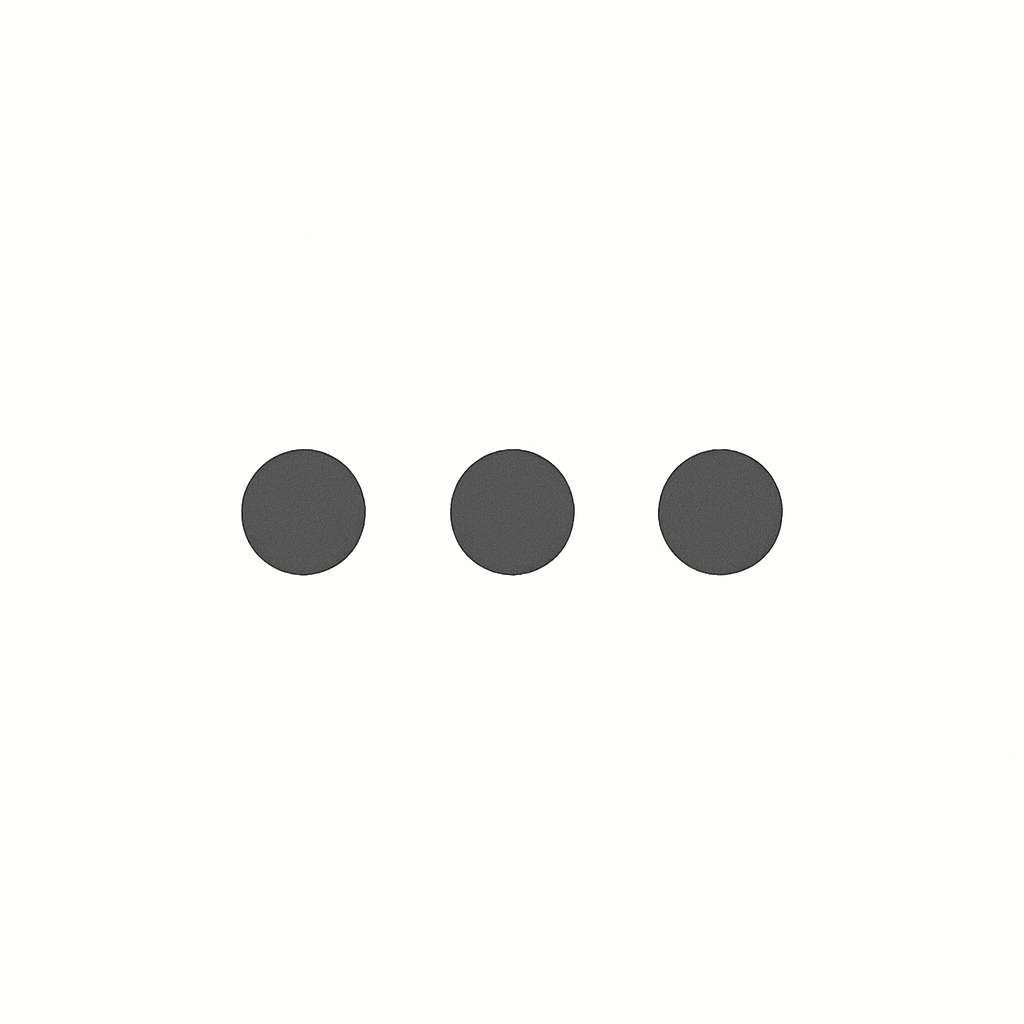
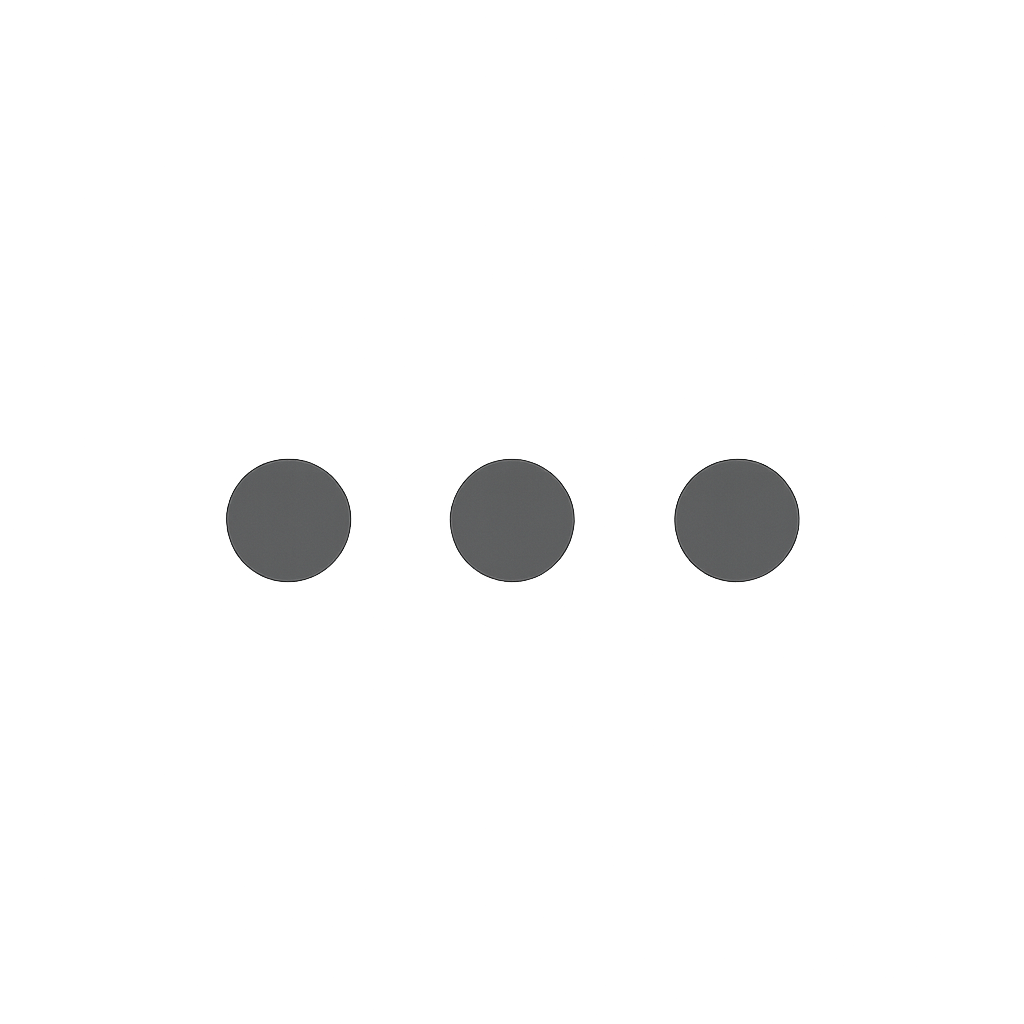
alteracao do tamanho da imagens

diff --git a/CSS/style.css b/CSS/style.css
@@ -169,9 +169,10 @@ footer ul li img:hover {
     justify-items: center;
     padding: 0.8rem;
     grid-template-columns: repeat(auto-fill, minmax(10rem, 1fr));
+    
 }
 .option img {
-    width: 100%;
+    width: 70%;
     height: auto;
     max-width: 12rem;
 }
@@ -267,4 +268,17 @@ main p {
 }
 a{
     text-decoration: none;
+}
+.option  a{
+    display: flex;
+    flex-direction: column;
+    align-items: center;
+    background-color:#f2f2f2;
+    height: 10rem;
+    width: auto;
+    padding: 0.5rem;
+}
+.options div{
+    margin-top: 1rem;
+
 }

diff --git a/index.html b/index.html
@@ -49,7 +49,7 @@
             </div>
             <div class="option">
                 <a href="tela_buscar.html">
-                    <img src="img/destaques.png" alt="Produto 5">
+                    <img src="img/destaque.png" alt="Produto 5">
                     <p>Promoções</p>
                 </a>
             </div>
